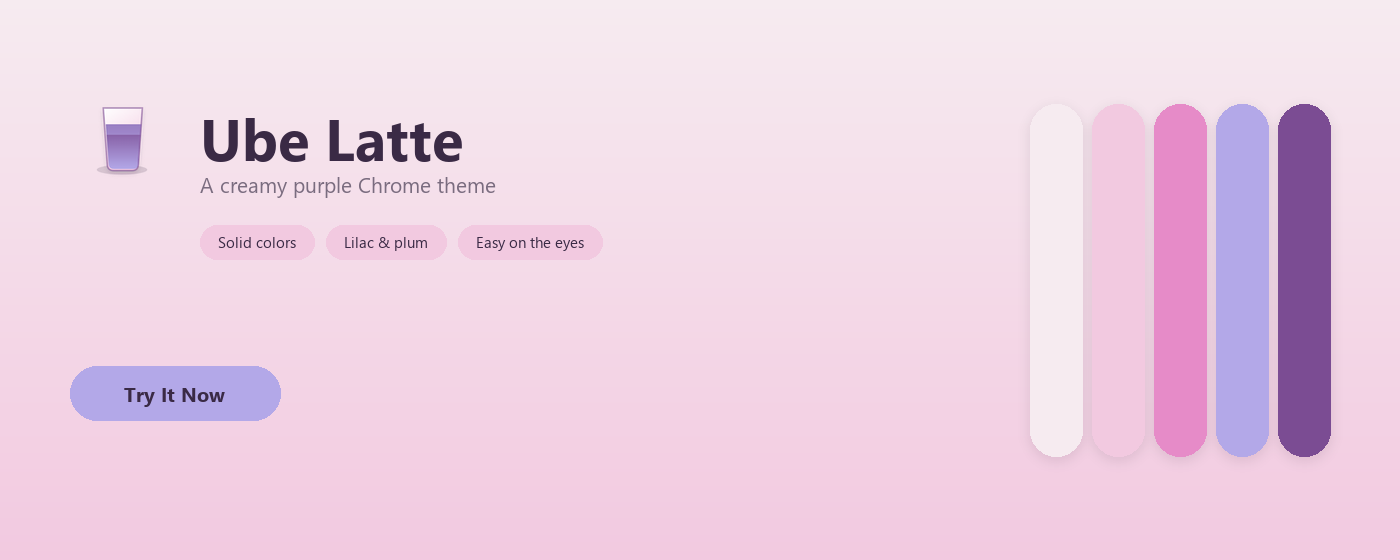
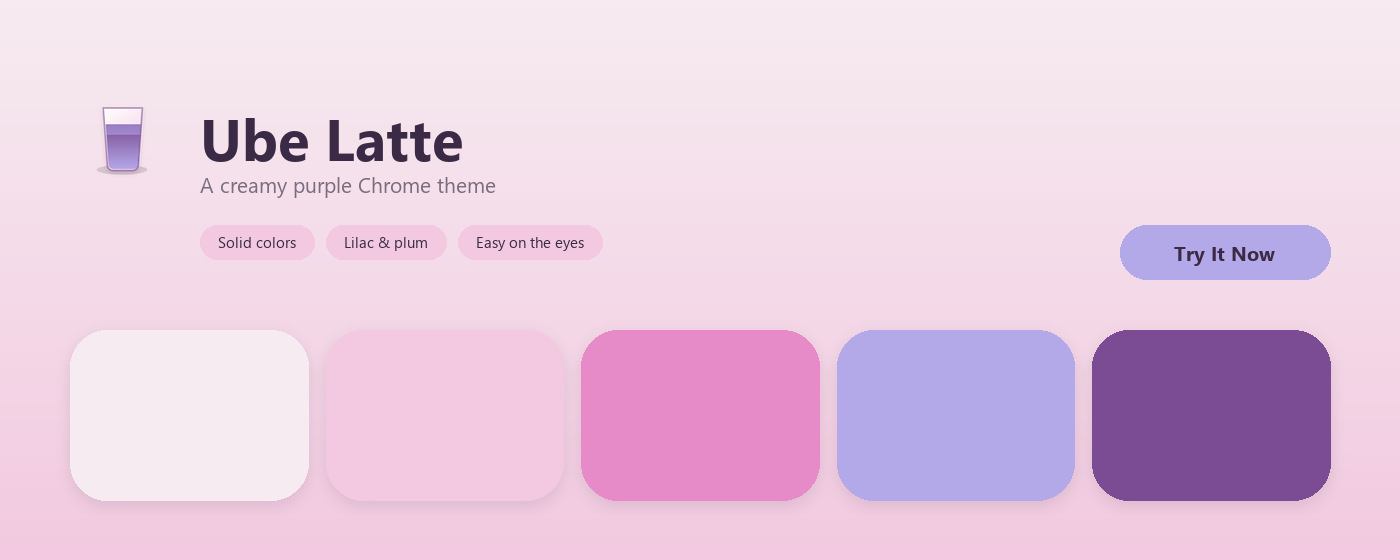
promo 色块改为横跨整幅的大方块 + CTA 右对齐
- 色块：由右侧竖条改为 5 个大方块横向铺满整幅（更大、方块感、不再挤在右侧）
- CTA 移到 chips 同一行右端，色块行独立占下半幅，留出呼吸
- README promo 引用升 ?v=4；重新打包 zip 覆盖

Changed region(s): [[0.3993, 0.1821, 0.9521, 0.9107], [0.0307, 0.6375, 0.2457, 0.9107]]

diff --git a/scripts/generate-promo.py b/scripts/generate-promo.py
@@ -89,38 +89,38 @@ def compose(size, geom, colors, props):
     # palette strip: one long band across the full width, split into segments
     # (user request 2026-10-20: long strips instead of a tile grid, so the
     #  composition no longer leaves the left side empty)
-    # tall vertical palette strips on the right (user request 2026-10-20):
-    # five distinct colours, pale -> deep, running nearly the full canvas height
-    # so the composition stays balanced against the text column.
-    strip_colors = [rgb(colors["ntp_background"]), rgb(colors["button_background"]),
+    # big palette blocks spread across the full width (user request 2026-10-20:
+    # larger, blocky, distributed — not crowded on the right). Five distinct
+    # colours ordered pale -> deep, sitting on a shelf under the text column.
+    block_colors = [rgb(colors["ntp_background"]), rgb(colors["button_background"]),
                     rgb(colors["button_background_secondary"]), rgb(colors["frame"]),
                     rgb(colors["ntp_link"])]
-    n = len(strip_colors)
-    block_w, sgap = geom["block_w"], geom["strip_gap"]
-    sw = (block_w - sgap * (n - 1)) / n
-    top, bottom = geom["strip_top"], geom["strip_bottom"]
-    assert sw > 0, "invalid strip width"
-    assert top >= 24 and bottom <= H - 24, "strips too close to the canvas edge"
-    bx = int(round(RIGHT - block_w))
-    assert bx >= M + 180, "strips would overlap the text column"
+    n = len(block_colors)
+    row_y, row_h, bgap = geom["row_y"], geom["row_h"], geom["row_gap"]
+    bw = (RIGHT - M - bgap * (n - 1)) / n
+    radius = min(bw, row_h) * 0.22
+    assert bw > row_h * 0.8, "blocks should read as blocks, not thin strips"
+    assert row_y + row_h <= H - 14, "block row too close to the canvas bottom"
+    assert row_y >= geom["cta_y"] + geom["cta_h"] + 8, "block row overlaps the CTA"
 
-    # a very soft shadow keeps the palest strips readable against a same-hue
+    # a very soft shadow keeps the palest blocks readable against a same-hue
     # background without drawing an outline
     shadow = Image.new("RGBA", (W, H), (0, 0, 0, 0))
     sd = ImageDraw.Draw(shadow)
-    x = bx
-    for _ in strip_colors:
-        sd.rounded_rectangle([x, top + 4, x + sw, bottom + 4], radius=sw / 2, fill=ink + (28,))
-        x += sw + sgap
-    shadow = shadow.filter(ImageFilter.GaussianBlur(6))
+    x = M
+    for _ in block_colors:
+        sd.rounded_rectangle([x, row_y + 5, x + bw, row_y + row_h + 5],
+                             radius=radius, fill=ink + (28,))
+        x += bw + bgap
+    shadow = shadow.filter(ImageFilter.GaussianBlur(7))
     img = Image.alpha_composite(img.convert("RGBA"), shadow).convert("RGB")
     d = ImageDraw.Draw(img)
 
-    x = bx
-    for col in strip_colors:
-        d.rounded_rectangle([x, top, x + sw, bottom], radius=sw / 2, fill=col)
-        x += sw + sgap
-    assert x - sgap <= RIGHT + 0.5, "palette strips overflow the right margin"
+    x = M
+    for col in block_colors:
+        d.rounded_rectangle([x, row_y, x + bw, row_y + row_h], radius=radius, fill=col)
+        x += bw + bgap
+    assert x - bgap <= RIGHT + 0.5, "palette blocks overflow the right margin"
 
     lsize = geom["logo"]
     logo = Image.open("logo/logo.png").convert("RGBA").resize((lsize, lsize), Image.LANCZOS)
@@ -143,7 +143,7 @@ def compose(size, geom, colors, props):
 
     f_cta = font(geom["cta_size"], True)
     btn_w, btn_h = geom["cta_w"], geom["cta_h"]
-    btn_x = M
+    btn_x = (RIGHT - btn_w) if geom.get("cta_right") else M
     btn_y = geom["cta_y"] if geom["cta_beside"] else cy + geom["chip_h"] + geom["cta_gap"]
     d.rounded_rectangle([btn_x, btn_y, btn_x + btn_w, btn_y + btn_h], radius=btn_h // 2, fill=cta_bg)
     tw = text_w(d, geom["cta"], f_cta)
@@ -152,7 +152,7 @@ def compose(size, geom, colors, props):
     assert btn_y + btn_h <= H - 12, "CTA button too close to the canvas bottom"
     assert btn_x + btn_w <= RIGHT, "CTA button overflows the right margin"
     return img, {"btn": (btn_x, btn_y, btn_w, btn_h),
-                 "strips": (bx, top, block_w, bottom - top)}
+                 "blocks": (M, row_y, RIGHT - M, row_h)}
 
 
 LARGE = {
@@ -163,8 +163,8 @@ LARGE = {
     "chips": ["Solid colors", "Lilac & plum", "Easy on the eyes"],
     "chip_size": 15, "chip_h": 34, "chip_gap": 34, "chip_gap_x": 12,
     "cta": "Try It Now", "cta_size": 20, "cta_w": 210, "cta_h": 54,
-    "cta_y": 366, "cta_beside": True,
-    "block_w": 300, "strip_gap": 10, "strip_top": 104, "strip_bottom": 456,
+    "cta_y": 225, "cta_beside": True, "cta_right": True,
+    "row_y": 330, "row_h": 170, "row_gap": 18,
 }
 
 SMALL = {
@@ -175,8 +175,8 @@ SMALL = {
     "chips": ["Solid colors", "Lilac & plum"],
     "chip_size": 10, "chip_h": 22, "chip_gap": 12, "chip_gap_x": 8,
     "cta": "Try It Now", "cta_size": 13, "cta_w": 118, "cta_h": 36,
-    "cta_y": 0, "cta_gap": 16, "cta_beside": False,
-    "block_w": 132, "strip_gap": 6, "strip_top": 56, "strip_bottom": 224,
+    "cta_y": 136, "cta_gap": 16, "cta_beside": True, "cta_right": True,
+    "row_y": 224, "row_h": 40, "row_gap": 7,
 }
 
 
@@ -190,7 +190,7 @@ def main():
         img, boxes = compose(size, geom, c, p)
         out = "%s/%dx%d.png" % (OUT_DIR, size[0], size[1])
         save_png(img, out)
-        print("saved:", out, img.size, img.mode, "cta:", boxes["btn"], "strips:", boxes["strips"])
+        print("saved:", out, img.size, img.mode, "cta:", boxes["btn"], "blocks:", boxes["blocks"])
 
 
 if __name__ == "__main__":

diff --git a/README.md b/README.md
@@ -16,7 +16,7 @@
 </p>
 
 <p align="center">
-  <img src="https://raw.githubusercontent.com/vaxicy/ube-latte-theme/main/store-assets/promo/1400x560.png?v=3" alt="Ube Latte Theme promo" width="700">
+  <img src="https://raw.githubusercontent.com/vaxicy/ube-latte-theme/main/store-assets/promo/1400x560.png?v=4" alt="Ube Latte Theme promo" width="700">
 </p>
 
 ## Overview
